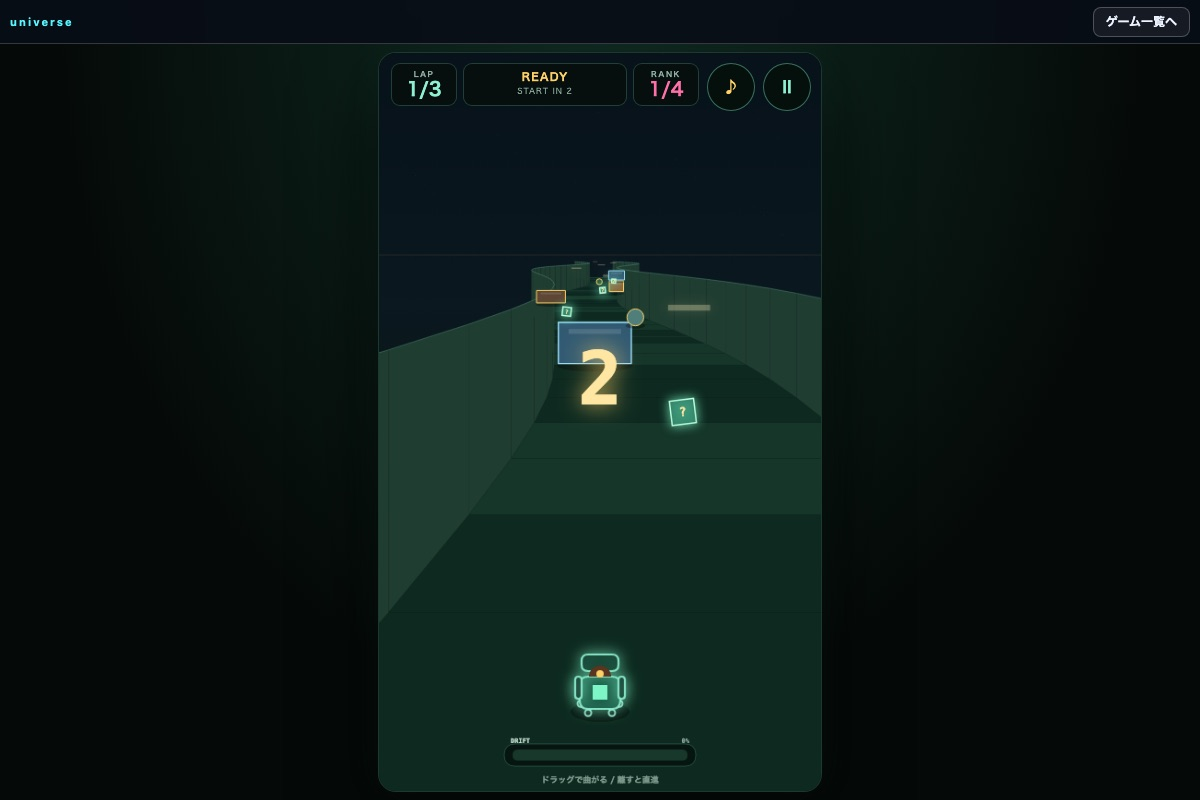
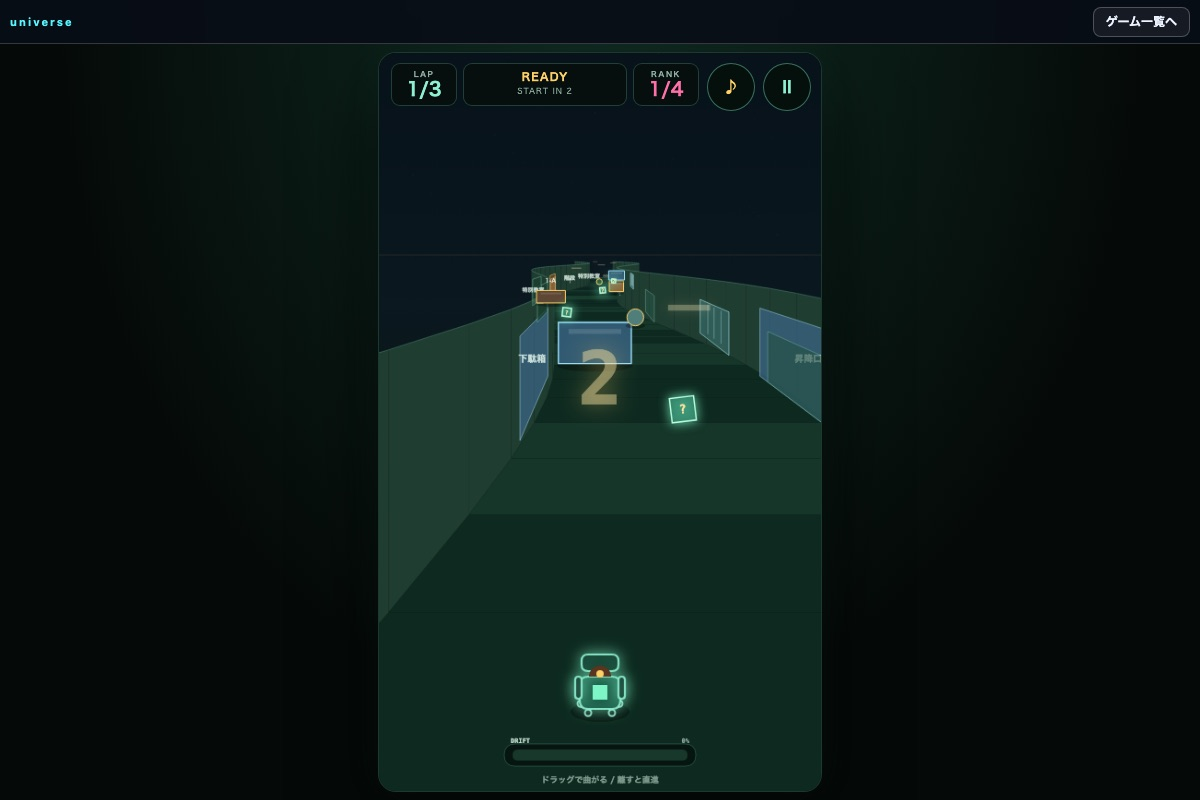
school-chair-drift: 日本の校舎らしい3Dコースに更新 (#235)
1F昇降口の下駄箱、教室の扉、廊下の窓、階段表示、2F特別教室、3F渡り廊下を疑似3Dコースに追加。ステージ名も校舎のフロア構成に合わせ、README・apps.json・サムネイルを更新。

Changed region(s): [[0.555, 0.375, 0.7092, 0.5312], [0.4317, 0.3438, 0.5242, 0.5312], [0.555, 0.4688, 0.5858, 0.5312]]

diff --git a/projects/_labs/school-chair-drift/game.js b/projects/_labs/school-chair-drift/game.js
@@ -273,6 +273,8 @@
       drawWall(c1 + st.halfWidth, c2 + st.halfWidth, s1, s2, d, d2w, '#203d31', '#6fe6b8');
     }
 
+    drawSchoolDetails();
+
     // overhead lights
     for (d = 260; d < VIEW_DEPTH; d += 420) {
       s1 = wrapS(p.s + d, st.length);
@@ -311,6 +313,107 @@
     ctx.moveTo(f1.x, f1.y - h1);
     ctx.lineTo(f2.x, f2.y - h2);
     ctx.stroke();
+  }
+
+  function panelQuad(s, x, d, height, fill, edge, inset) {
+    var p = playerRacer();
+    var st = stageData();
+    var s2 = s + 150;
+    var d2 = wrapS(s2 - p.s, st.length);
+    if (d < 70 || d > 1900 || d2 < 70 || d2 > 1900) return null;
+    var p1 = project(s, x, d);
+    var p2 = project(s2, x, d2);
+    if (!p1 || !p2) return null;
+    var top1 = p1.y - height * p1.scale;
+    var top2 = p2.y - height * p2.scale;
+    ctx.fillStyle = fill;
+    ctx.beginPath();
+    ctx.moveTo(p1.x, p1.y);
+    ctx.lineTo(p2.x, p2.y);
+    ctx.lineTo(p2.x, top2);
+    ctx.lineTo(p1.x, top1);
+    ctx.closePath();
+    ctx.fill();
+    if (edge) {
+      ctx.strokeStyle = edge;
+      ctx.lineWidth = 1;
+      ctx.stroke();
+    }
+    return { x1: p1.x, x2: p2.x, y1: p1.y, y2: p2.y, top1: top1, top2: top2 };
+  }
+
+  function drawWallText(text, s, x, d, yOffset, size) {
+    var p = playerRacer();
+    var st = stageData();
+    var pr = project(s, x, d);
+    if (!pr) return;
+    var px = pr.x;
+    var py = pr.y - yOffset * pr.scale;
+    if (px < -60 || px > C.VIEW_W + 60 || py < 0 || py > C.VIEW_H) return;
+    ctx.save();
+    ctx.fillStyle = 'rgba(237, 255, 244, 0.82)';
+    ctx.font = '900 ' + Math.max(6, size * pr.scale) + 'px "Hiragino Kaku Gothic ProN", "Yu Gothic", system-ui, sans-serif';
+    ctx.textAlign = 'center';
+    ctx.textBaseline = 'middle';
+    ctx.fillText(text, px, py);
+    ctx.restore();
+  }
+
+  function drawSchoolDetails() {
+    var p = playerRacer();
+    var st = stageData();
+    var base = Math.floor((p.s - 200) / 260) * 260;
+    for (var s = base; s < p.s + 1900; s += 260) {
+      var d = wrapS(s - p.s, st.length);
+      if (d < 90 || d > 1900) continue;
+      var center = E.trackCenter(st, s);
+      var leftX = center - st.halfWidth;
+      var rightX = center + st.halfWidth;
+      var index = Math.floor(s / 260);
+      var side = index % 4;
+      // opposite walls get doors/windows; near the start, shoe lockers.
+      if (s >= -260 && s < 320) {
+        panelQuad(s + 20, leftX, wrapS(s + 20 - p.s, st.length), 96, 'rgba(57, 100, 132, 0.75)', 'rgba(182, 233, 255, 0.45)');
+        panelQuad(s + 20, rightX, wrapS(s + 20 - p.s, st.length), 96, 'rgba(57, 100, 132, 0.75)', 'rgba(182, 233, 255, 0.45)');
+        drawWallText('下駄箱', s + 70, leftX, wrapS(s + 70 - p.s, st.length), 58, 10);
+        drawWallText('昇降口', s + 70, rightX, wrapS(s + 70 - p.s, st.length), 58, 10);
+      } else if (side === 0 || side === 3) {
+        panelQuad(s, leftX, d, 90, 'rgba(26, 62, 48, 0.8)', 'rgba(143, 240, 208, 0.35)');
+        drawWallText(index % 3 === 0 ? '教室' : '特別教室', s + 10, leftX, wrapS(s + 10 - p.s, st.length), 52, 9);
+      } else if (side === 1) {
+        // classroom door
+        panelQuad(s, leftX, d, 86, 'rgba(101, 69, 40, 0.9)', 'rgba(255, 209, 102, 0.5)');
+        panelQuad(s + 8, leftX, wrapS(s + 8 - p.s, st.length), 70, 'rgba(171, 121, 69, 0.55)', 'rgba(255, 226, 150, 0.35)');
+        drawWallText('1-A', s + 14, leftX, wrapS(s + 14 - p.s, st.length), 62, 8);
+      } else {
+        // windows along the right wall
+        panelQuad(s, rightX, d, 74, 'rgba(97, 181, 196, 0.26)', 'rgba(180, 247, 255, 0.55)');
+        for (var w = 1; w < 4; w++) {
+          var ws = s + w * 34;
+          var wd = wrapS(ws - p.s, st.length);
+          var wp = project(ws, rightX, wd);
+          if (wp) {
+            ctx.strokeStyle = 'rgba(207, 252, 255, 0.33)';
+            ctx.lineWidth = 1;
+            ctx.beginPath();
+            ctx.moveTo(wp.x, wp.y - 70 * wp.scale);
+            ctx.lineTo(wp.x, wp.y - 10 * wp.scale);
+            ctx.stroke();
+          }
+        }
+      }
+      if (index % 2 === 1) {
+        panelQuad(s, rightX, d, 68, 'rgba(38, 81, 67, 0.64)', 'rgba(160, 245, 214, 0.28)');
+      }
+    }
+    // stairs signs at fixed sections of each floor
+    var stairS = st.id === 'corridor' ? 1500 : (st.id === 'special' ? 2300 : 3300);
+    var stairD = wrapS(stairS - p.s, st.length);
+    if (stairD < 1600) {
+      var sc = E.trackCenter(st, stairS);
+      drawWallText('階段', stairS, sc - st.halfWidth, stairD, 62, 10);
+      drawWallText('↑', stairS + 18, sc - st.halfWidth, wrapS(stairS + 18 - p.s, st.length), 48, 12);
+    }
   }
 
   function drawFinish() {

diff --git a/projects/_labs/school-chair-drift/engine.js b/projects/_labs/school-chair-drift/engine.js
@@ -22,7 +22,7 @@
 
   var STAGES = [
     {
-      id: 'corridor', name: '1F 渡り廊下', length: 3000, halfWidth: 150, baseSpeed: 300, maxSpeed: 360, turns: 2,
+      id: 'corridor', name: '1F 昇降口〜廊下', length: 3000, halfWidth: 150, baseSpeed: 300, maxSpeed: 360, turns: 2,
       curveAmp: 76,
       obstacles: [
         obstacle(480, -86, 128, 50, 'locker'), obstacle(760, 92, 52, 52, 'bucket'),
@@ -33,7 +33,7 @@
       itemBoxes: [itemBox(300, 0), itemBox(850, -58), itemBox(1350, 62), itemBox(1900, 0), itemBox(2450, -58), itemBox(2850, 62)]
     },
     {
-      id: 'special', name: '特別棟', length: 3800, halfWidth: 140, baseSpeed: 320, maxSpeed: 385, turns: 3,
+      id: 'special', name: '2F 特別教室', length: 3800, halfWidth: 140, baseSpeed: 320, maxSpeed: 385, turns: 3,
       curveAmp: 92,
       obstacles: [
         obstacle(420, -74, 120, 50, 'locker'), obstacle(720, 84, 104, 46, 'desk'),
@@ -45,7 +45,7 @@
       itemBoxes: [itemBox(280, 0), itemBox(800, 58), itemBox(1300, -62), itemBox(1850, 0), itemBox(2400, 58), itemBox(3000, -62), itemBox(3550, 0)]
     },
     {
-      id: 'entrance', name: '3F エントランス', length: 4500, halfWidth: 130, baseSpeed: 340, maxSpeed: 410, turns: 4,
+      id: 'entrance', name: '3F 渡り廊下', length: 4500, halfWidth: 130, baseSpeed: 340, maxSpeed: 410, turns: 4,
       curveAmp: 108,
       obstacles: [
         obstacle(380, -68, 118, 50, 'locker'), obstacle(680, 78, 118, 50, 'desk'),

diff --git a/projects/_labs/school-chair-drift/index.html b/projects/_labs/school-chair-drift/index.html
@@ -79,8 +79,8 @@
     </div>
   </main>
   <script src="audio.js?v=1"></script>
-  <script src="engine.js?v=2"></script>
-  <script src="game.js?v=2"></script>
+  <script src="engine.js?v=3"></script>
+  <script src="game.js?v=3"></script>
   <script src="../../_shared/game-back.js"></script>
 </body>
 </html>

diff --git a/projects/_labs/school-chair-drift/README.md b/projects/_labs/school-chair-drift/README.md
@@ -1,6 +1,6 @@
 # 放課後チェア・グランプリ（school-chair-drift）
 
-放課後の校舎を舞台にした、オフィスチェアの3D風レースです。自分＋CPU3台の4人で、校舎コースを3周。後方チェイスカメラで廊下を駆け抜け、ドリフトでミニターボを溜め、アイテムボックスから出るミルク・消しゴム・給食トレイで順位を狙います。各コース1位で次へ進み、3コース制覇でENDINGです。
+放課後の日本の校舎を舞台にした、オフィスチェアの3D風レースです。1F昇降口の下駄箱、教室の扉、廊下の窓、階段表示、2F特別教室、3F渡り廊下を描き、自分＋CPU3台の4人で各フロア3周を走ります。後方チェイスカメラで廊下を駆け抜け、ドリフトでミニターボを溜め、アイテムボックスから出るミルク・消しゴム・給食トレイで順位を狙います。各コース1位で次へ進み、3コース制覇でENDINGです。
 
 ## 遊ぶ
 
@@ -30,7 +30,8 @@ universe のルートで `python3 -m http.server 8000` を実行し、http://loc
 ## 見た目
 
 - Canvasによる**疑似3Dの後方チェイスカメラ**。奥行きに合わせて廊下・壁・障害物・対戦相手を投影
-- 校舎の廊下、ロッカー、机、給食ワゴン、消しゴム、アイテムボックス
+- 1F昇降口の下駄箱、教室の扉、廊下の窓、階段表示、2F特別教室、3F渡り廊下
+- 学校の廊下、ロッカー、机、給食ワゴン、消しゴム、アイテムボックス
 - オフィスチェアのキャスター、座面、背もたれ、乗っている生徒
 - ドリフトゲージ、順位、ラップ、アイテムボタン
 - ミニターボ、クラッシュ、アイテム使用、ゴールの紙吹雪・花火
@@ -78,6 +79,7 @@ jsc test-smoke.js
 ## 既知の制限
 
 - 3DはCanvasの疑似3D。自由視点・本格的な3D物理・モデリングはない
+- 校舎は3フロアのレースコースとしての再現で、教室内部への自由侵入や校舎全体の散策はできない
 - コースは3本。分岐やショートカットはない
 - CPUはヒューリスティックAI。オンライン対戦・ゴースト・ランキングはない
 - 1位以外は次コースへ進めない

diff --git a/projects/README.md b/projects/README.md
@@ -26,7 +26,7 @@
 | `stick-soccer` | `_labs/` | 継続的に遊べるゲーム。実験・改善を続ける |
 | `stick-soccer-players` | `_labs/` | 選手を投げてボールを動かす、継続的に遊べるサッカーゲーム。実験・改善を続ける |
 | `stick-colosseum` | `_labs/` | 5vs5で相手をリング外へ押し出す、継続的に遊べるバトルゲーム。実験・改善を続ける |
-| `school-chair-drift` | `_labs/` | 校舎を椅子で走る3D風レース。実験・改善を続ける |
+| `school-chair-drift` | `_labs/` | 日本の校舎を椅子で走る3D風レース。実験・改善を続ける |
 | `neon-stack` | `_labs/` | 継続的に遊べるゲーム。実験・改善を続ける |
 | `graph-cross` | `_labs/` | 継続的に遊べるゲーム。実験・改善を続ける |
 | `exponential-balls` | `_labs/` | 継続的に遊べるゲーム。実験・改善を続ける |
